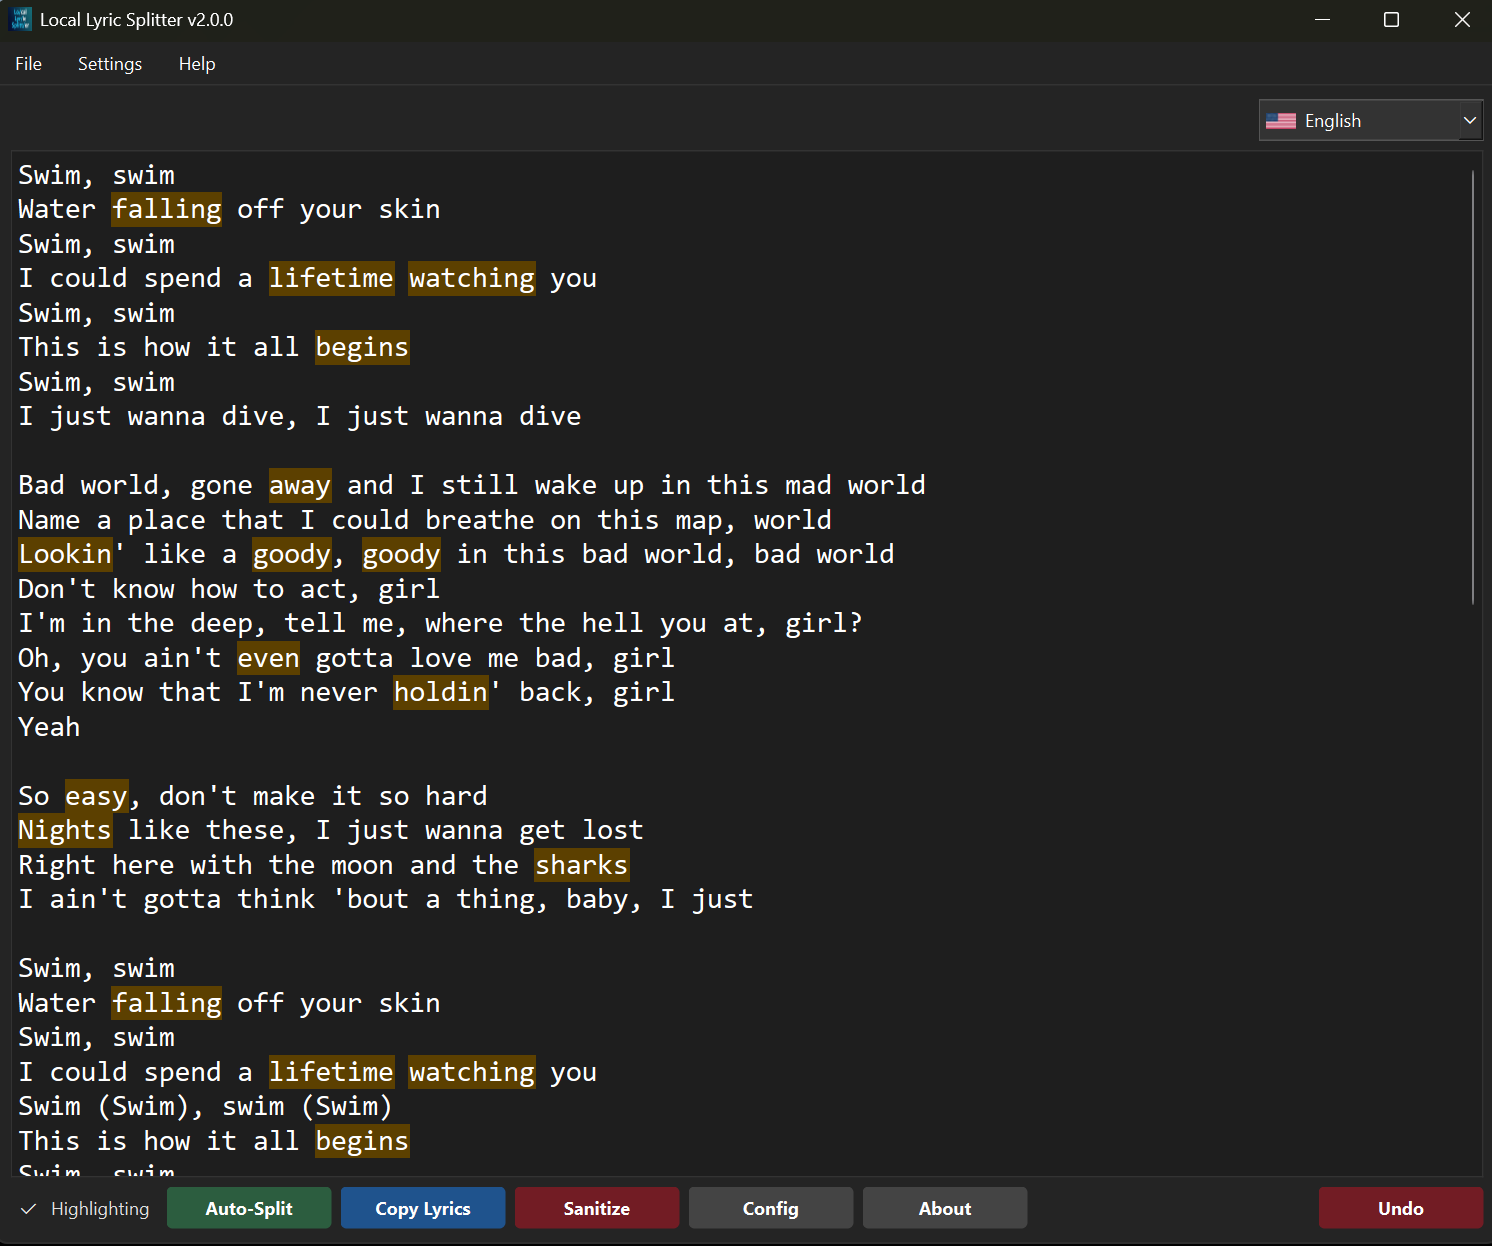
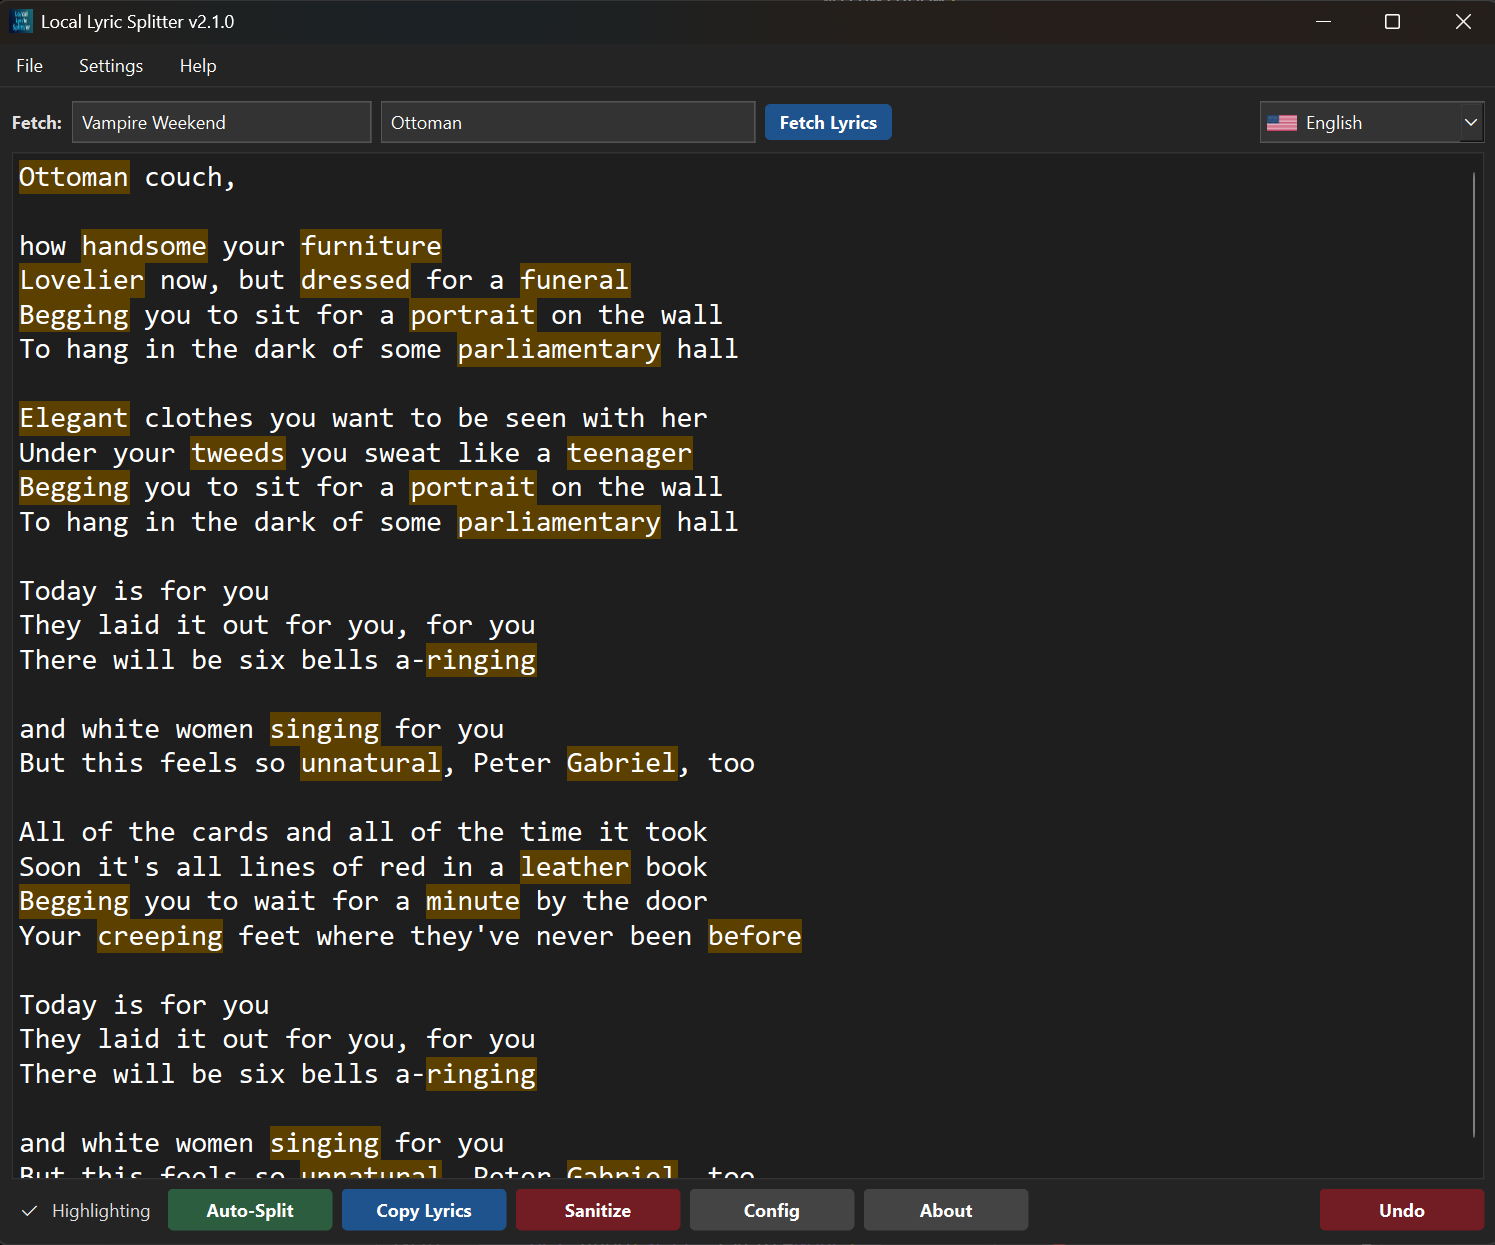
v2.1.0 lyric pull

diff --git a/app.py b/app.py
@@ -3,11 +3,14 @@ import os
 import re
 import shutil
 import sys
+import urllib.parse
 import urllib.request
 from pathlib import Path
 
 import pyphen
-from PySide6.QtCore import QSize, Qt, QTimer
+import requests
+from bs4 import BeautifulSoup
+from PySide6.QtCore import QSize, Qt, QThread, QTimer, Signal
 from PySide6.QtGui import (
     QAction,
     QColor,
@@ -38,7 +41,111 @@ from PySide6.QtWidgets import (
     QWidget,
 )
 
-APP_VERSION = "2.0.0"
+APP_VERSION = "2.1.0"
+
+# --- NETWORK WORKER ---
+
+
+class LyricFetchWorker(QThread):
+    """Threaded worker to prevent UI freezing during network requests."""
+
+    success = Signal(str)
+    failure = Signal(str)
+
+    def __init__(self, artist, title):
+        super().__init__()
+        self.artist = artist.strip()
+        self.title = title.strip()
+        self.headers = {
+            "User-Agent": "Mozilla/5.0 (Windows NT 10.0; Win64; x64) AppleWebKit/537.36 (KHTML, like Gecko) Chrome/120.0.0.0 Safari/537.36"
+        }
+
+    def run(self):
+        try:
+            # 1. Genius Search & Scrape
+            lyrics = self.fetch_genius()
+            if lyrics:
+                self.success.emit(lyrics)
+                return
+
+            # 2. AZLyrics Backup
+            lyrics = self.fetch_azlyrics()
+            if lyrics:
+                self.success.emit(lyrics)
+                return
+
+            # 3. LRCLIB Open API Backup (Highly reliable for popular songs)
+            lyrics = self.fetch_lrclib_fallback()
+            if lyrics:
+                self.success.emit(lyrics)
+                return
+
+            self.failure.emit("Lyrics not found on Genius, AZLyrics, or LRCLIB.")
+        except Exception as e:
+            self.failure.emit(f"Connection error: {str(e)}")
+
+    def fetch_genius(self):
+        try:
+            query = f"{self.artist} {self.title}".replace(" ", "%20")
+            url = f"https://genius.com/api/search/multi?q={query}"
+            response = requests.get(url, headers=self.headers, timeout=10)
+            data = response.json()
+
+            for section in data["response"]["sections"]:
+                if section["type"] == "top_hit" and section["hits"]:
+                    song_url = section["hits"][0]["result"]["url"]
+                    page = requests.get(song_url, headers=self.headers, timeout=10)
+                    soup = BeautifulSoup(page.text, "html.parser")
+
+                    lyrics_divs = soup.select('div[class^="Lyrics__Container"]')
+                    if lyrics_divs:
+                        return "\n".join(
+                            [d.get_text(separator="\n") for d in lyrics_divs]
+                        )
+            return None
+        except Exception:
+            return None
+
+    def fetch_azlyrics(self):
+        try:
+            clean_artist = re.sub(r"[^a-z0-9]", "", self.artist.lower())
+            clean_title = re.sub(r"[^a-z0-9]", "", self.title.lower())
+            url = f"https://www.azlyrics.com/lyrics/{clean_artist}/{clean_title}.html"
+
+            response = requests.get(url, headers=self.headers, timeout=10)
+            soup = BeautifulSoup(response.text, "html.parser")
+
+            comment = soup.find(
+                string=lambda text: (
+                    "Usage of azlyrics.com content" in text if text else False
+                )
+            )
+            if comment:
+                return comment.find_next("div").get_text().strip()
+            return None
+        except Exception:
+            return None
+
+    def fetch_lrclib_fallback(self):
+        """Replaces Google scrape with a robust, free open-source lyrics API."""
+        try:
+            query = f"{self.artist} {self.title}"
+            url = f"https://lrclib.net/api/search?q={urllib.parse.quote(query)}"
+
+            response = requests.get(url, headers=self.headers, timeout=10)
+            if response.status_code == 200:
+                data = response.json()
+                if data and len(data) > 0:
+                    # Grab the plain lyrics from the first result
+                    lyrics = data[0].get("plainLyrics")
+                    if lyrics:
+                        return lyrics
+            return None
+        except Exception:
+            return None
+
+
+# --- CORE APPLICATION ---
 
 
 def get_config_path():
@@ -487,7 +594,29 @@ class StreamlinedLyricApp(QMainWindow):
         self.main_layout = QVBoxLayout(central_widget)
 
         self.header_frame = QHBoxLayout()
+
+        # --- NEW SEARCH UI INTEGRATED HERE ---
+        self.artist_input = QLineEdit()
+        self.artist_input.setPlaceholderText("Artist Name...")
+        self.artist_input.setFixedWidth(200)
+
+        self.song_input = QLineEdit()
+        self.song_input.setPlaceholderText("Song Title...")
+        self.song_input.setFixedWidth(250)
+
+        self.fetch_btn = QPushButton("Fetch Lyrics")
+        self.fetch_btn.setStyleSheet(
+            "background-color: #1f538d; color: white; font-weight: bold; padding: 4px 10px;"
+        )
+        self.fetch_btn.clicked.connect(self.start_lyric_fetch)
+
+        self.header_frame.addWidget(QLabel("<b>Fetch:</b>"))
+        self.header_frame.addWidget(self.artist_input)
+        self.header_frame.addWidget(self.song_input)
+        self.header_frame.addWidget(self.fetch_btn)
+
         self.header_frame.addStretch()
+        # -------------------------------------
 
         self.lang_menu = QComboBox()
         self.lang_menu.setIconSize(QSize(20, 15))
@@ -535,6 +664,39 @@ class StreamlinedLyricApp(QMainWindow):
         self.add_control_btn("Undo", "#721c24", self.undo)
 
         self.main_layout.addLayout(self.control_bar)
+
+    # --- NEW FETCH METHODS ---
+    def start_lyric_fetch(self):
+        artist = self.artist_input.text()
+        song = self.song_input.text()
+        if not artist or not song:
+            QMessageBox.warning(
+                self, "Input Required", "Please enter both Artist and Song Title."
+            )
+            return
+
+        self.fetch_btn.setEnabled(False)
+        self.fetch_btn.setText("Searching...")
+
+        self.worker = LyricFetchWorker(artist, song)
+        self.worker.success.connect(self.on_fetch_success)
+        self.worker.failure.connect(self.on_fetch_error)
+        self.worker.start()
+
+    def on_fetch_success(self, lyrics):
+        self.fetch_btn.setEnabled(True)
+        self.fetch_btn.setText("Fetch Lyrics")
+        self.take_snapshot()
+        self.txt.setPlainText(lyrics)
+        self.sanitize_lyrics()  # Auto-sanitize triggers automatically
+        self.refresh_highlights()
+
+    def on_fetch_error(self, message):
+        self.fetch_btn.setEnabled(True)
+        self.fetch_btn.setText("Fetch Lyrics")
+        QMessageBox.warning(self, "Not Found", message)
+
+    # -------------------------
 
     def get_flag_icon(self, country_code):
         config_dir = os.path.dirname(self.config_path)
@@ -879,27 +1041,79 @@ class StreamlinedLyricApp(QMainWindow):
         self.take_snapshot(None)
         content = self.txt.toPlainText()
         lines = content.splitlines()
+
+        # 1. Pre-pass: If we find an early bracket (e.g., [Verse 1]), wipe out the top block completely.
+        first_bracket_idx = -1
+        for i, line in enumerate(lines):
+            if line.strip().startswith("["):
+                first_bracket_idx = i
+                break
+
+        if first_bracket_idx > 0:
+            header_text = "\n".join(lines[:first_bracket_idx]).lower()
+            # Verify it's a metadata block before deleting
+            if (
+                "contributor" in header_text
+                or "lyrics" in header_text
+                or "read more" in header_text
+            ):
+                lines = lines[first_bracket_idx:]
+
+        # 2. Line-by-Line cleanup
         cleaned_lines = []
         skip_count = 0
+        skipping_blurb = False
 
-        # Removed unused 'i' variable from enumerate
         for line in lines:
             stripped = line.strip()
+
+            # Handle dynamic blurb skipping (e.g., descriptions before the lyrics)
+            if skipping_blurb:
+                if (
+                    stripped.lower() == "read more"
+                    or stripped.startswith("[")
+                    or stripped == ""
+                ):
+                    skipping_blurb = False
+                    if stripped.lower() == "read more":
+                        continue
+                if skipping_blurb:
+                    continue
+
             if skip_count > 0:
                 skip_count -= 1
                 continue
-            if re.match(r"^See .* Live$", stripped):
+
+            # Triggers to start skipping lines
+            if re.match(r"^\d+\s*Contributors?$", stripped, re.IGNORECASE):
+                skipping_blurb = True
+                continue
+
+            if re.match(r"^See .* Live$", stripped, re.IGNORECASE):
                 skip_count = 8
                 continue
+
             if "You might also like" in stripped:
                 skip_count = 6
                 continue
+
+            if stripped.lower() == "read more":
+                continue
+
+            # Catch stray "Song Title Lyrics" right at the top
+            if stripped.lower().endswith("lyrics") and len(cleaned_lines) == 0:
+                continue
+
+            # Strip brackets and clean
             line_no_tags = re.sub(r"\[.*?\]", "", line).strip()
+
+            # Prevent multiple stacked blank lines
             if line_no_tags == "":
                 if cleaned_lines and cleaned_lines[-1] != "":
                     cleaned_lines.append("")
             else:
                 cleaned_lines.append(line_no_tags)
+
         final_text = "\n".join(cleaned_lines).strip()
         self.txt.setPlainText(final_text)
         self.refresh_highlights()

diff --git a/README.md b/README.md
@@ -31,6 +31,7 @@ ________________________________________________________________________________
   - **Ad and Tag Removal:** Specific repetitive phrases like "See...Live" (9 lines) and "You might also like" (7 lines) patterns from Genius are removed entirely when you click `Sanitize`. `[Verse]`, `[Chorus]`, etc. are also removed.
   - **Spacing Protection:** `Sanitize` leaves exactly one blank line between stanzas, even if the source text had messy double-spacing or no spacing at all (if there were `[Tags]`).
   - **History Preservation:** The `Undo` button acts as a safety net if a "Sanitize" goes wrong.
+* 📖 **Lyrics Fetching:** Lyrics can be automatically pulled from Genius, AZLyrics, or Google Search. When lyrics are pulled, the sanitizer runs automatically, as well. This is intentional for future automated workflows.
 * 📂 **Load and Save .txt files:** You can save your work or load up a lyrics `.txt` file from the file menu. You can also drag and drop anywhere in the app.
 * 📂 **Organized JSON Database:** Your custom split rules are saved to a `config.json` that is automatically alphabetized and cleaned every time the app starts. The program comes with some default words in the database, as well.
 * 📂 **JSON Database Sharing:** You can export or merge the `.json` file to share or combine dictionaries with anyone. It doesn't overwrite your original dictionary. NOTE: You can always download the latest `.json` from the repository which will be a combination of mine and Rose's dictionary, but it will be packaged in every subsequent version to the date posted. Feel free to update the app and merge with the root `config.json` file.

diff --git a/CHANGELOG.md b/CHANGELOG.md
@@ -2,6 +2,11 @@
 
 All notable changes to Local Lyric Splitter will be documented in this file.
 
+## [2.1.0] - 2026-04-08
+
+### Added
+**Lyrics Fetching:** Lyrics can be automatically pulled from Genius, AZLyrics, or Google Search. When lyrics are pulled, the sanitizer runs automatically, as well. This is intentional for future automated workflows.
+
 ## [2.0.0] - 2026-04-07
 
 ### Added
